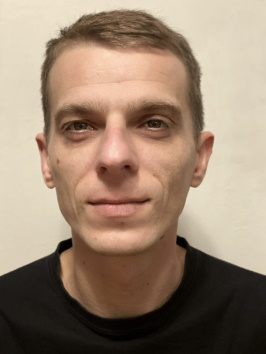
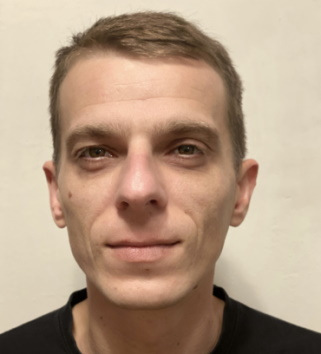
add

diff --git a/styles/styles.css b/styles/styles.css
@@ -210,10 +210,10 @@ body {
 }
 
 .photo {
-  width: 350px;
-  margin-left: 10px;
+  width: 320px;
+  margin-left: 25px;
   margin-bottom: 50px;
-  border-radius: 50%;
+  border-radius: 10px;
 }
 
 .contacts,
